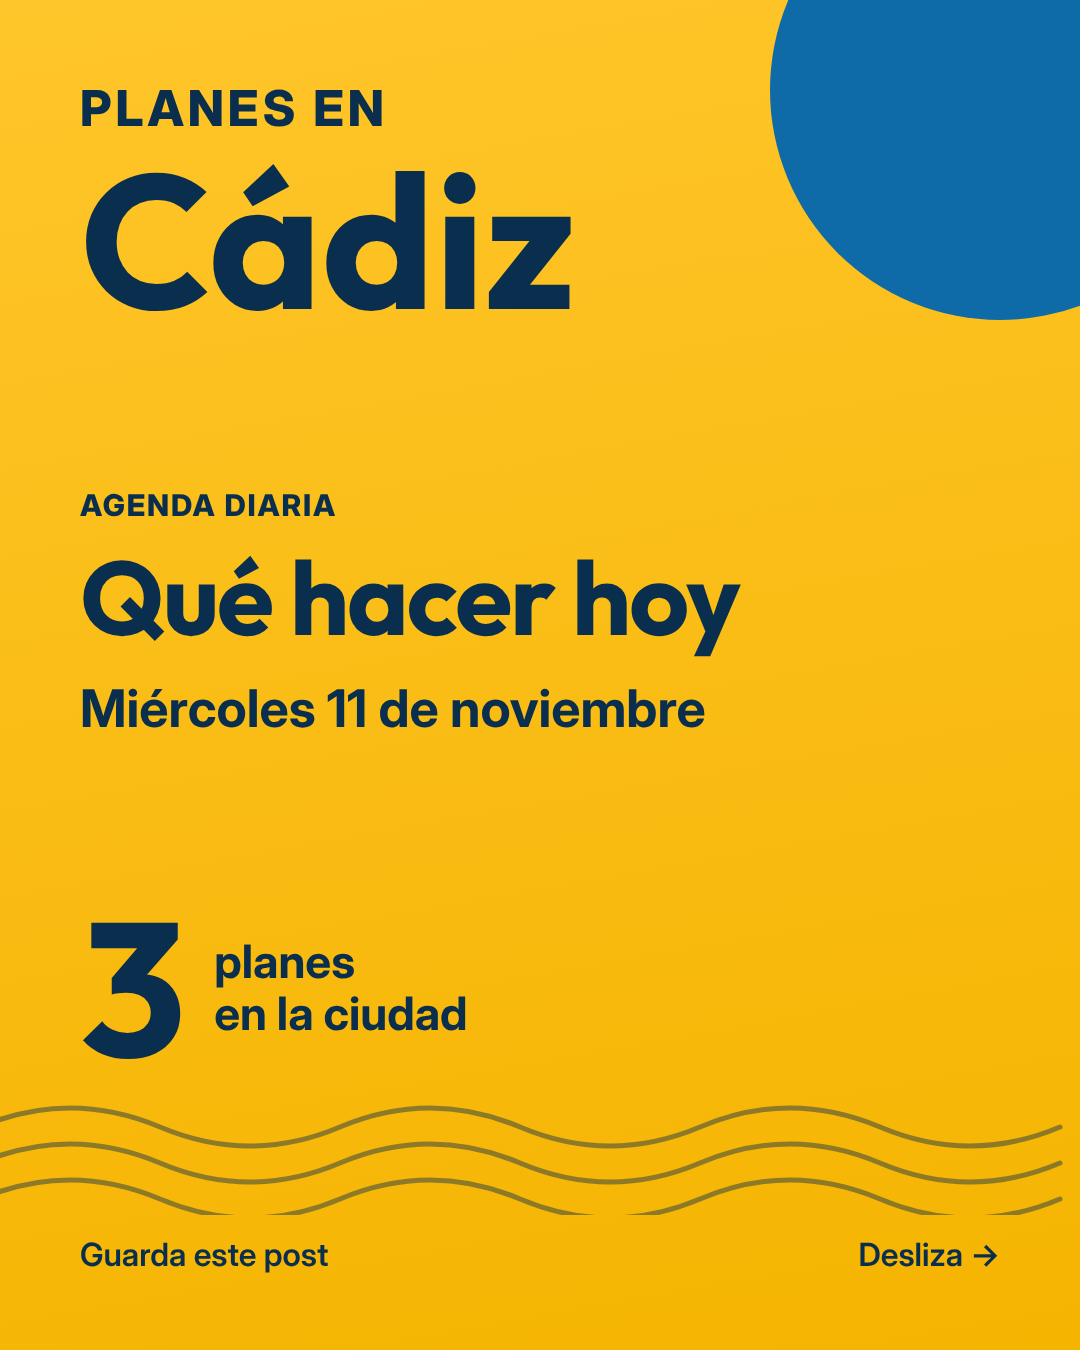
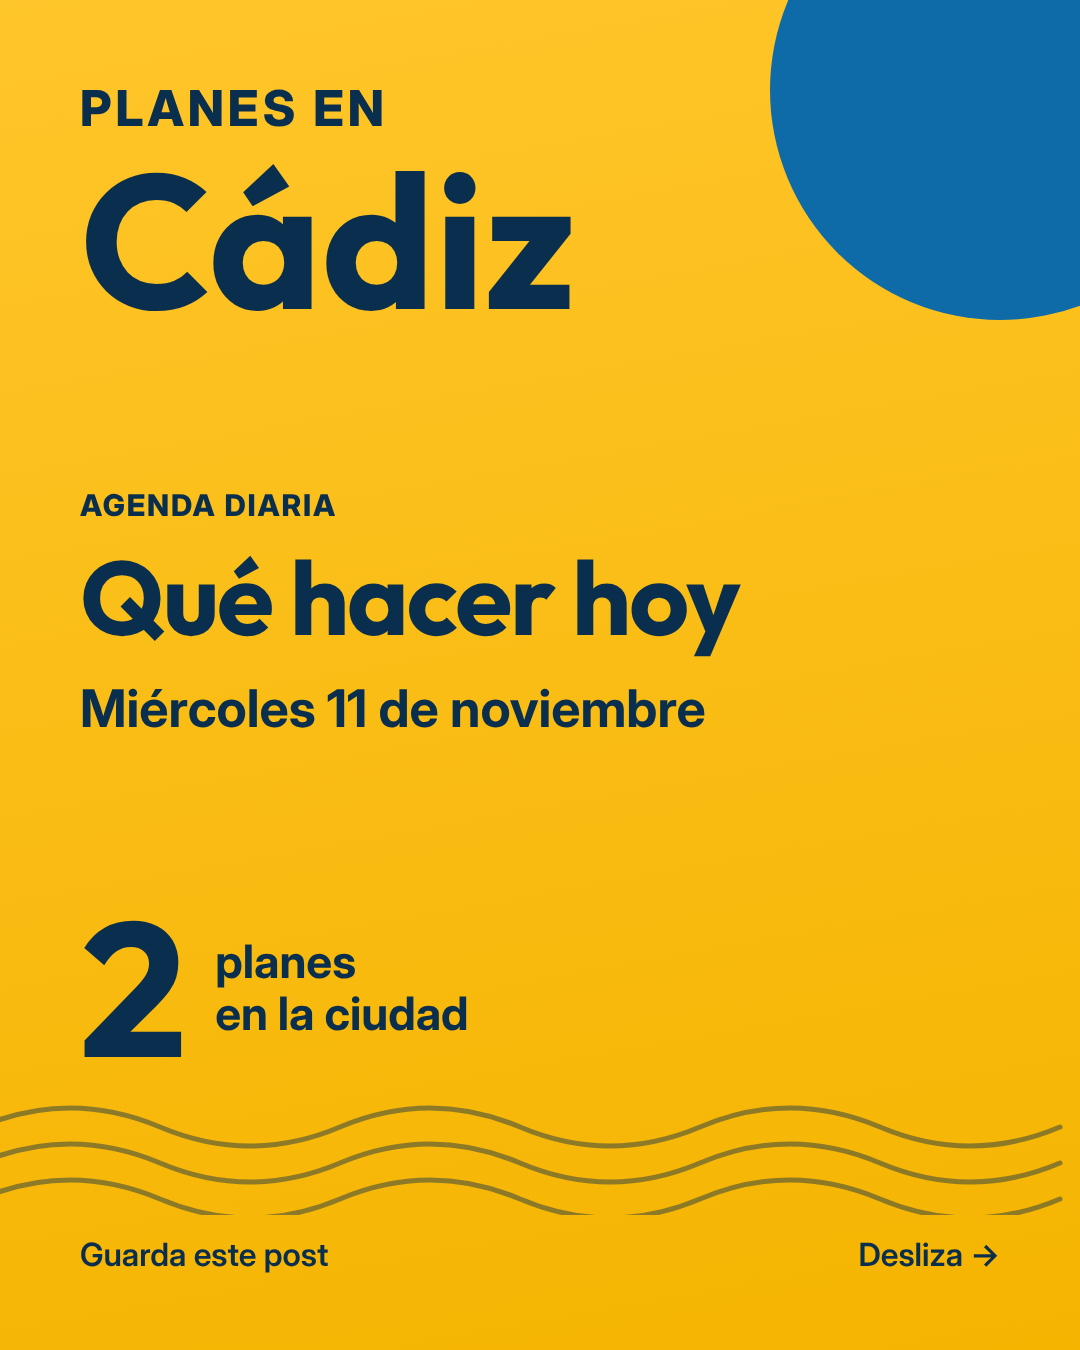
Retirado el pódcast Locos de la azotea del 11-nov (adelantado por el organizador); Cajasol enlaza cada evento a su ficha; regla: el organizador prevalece
Claude-Session: https://claude.ai/code/session_015K7xjVeU4nwxNYicvNL5Uy

Changed region(s): [[0.0611, 0.6844, 0.1833, 0.7778], [0.2139, 0.6844, 0.275, 0.7778], [0.3056, 0.7467, 0.4278, 0.7778]]

diff --git a/parsers_extra.py b/parsers_extra.py
@@ -216,7 +216,8 @@ def parser_cajasol(fuente, ventana):
         pg.goto("https://fundacioncajasol.com/eventos/", wait_until="networkidle", timeout=45000)
         texto = re.sub(r"\s+", " ", pg.inner_text("body"))
         enlaces = []
-        for h in pg.evaluate("Array.from(document.querySelectorAll(\"a[href*='/evento/']\")).map(a=>a.href)"):
+        pares = pg.evaluate("Array.from(document.querySelectorAll(\"a[href*='/evento/']\")).map(a=>[a.innerText.replace(/\\s+/g,' ').trim(),a.href])")
+        for _, h in pares:
             if h not in enlaces:
                 enlaces.append(h)
     texto = texto.split("FECHA LUGAR TITULO", 1)[-1]
@@ -238,7 +239,8 @@ def parser_cajasol(fuente, ventana):
             f0 = f0.replace(year=anio + 1)
         if f1 < f0:
             f1 = f1.replace(year=f0.year + 1)
-        url = enlaces[i] if len(enlaces) == len(filas) else "https://fundacioncajasol.com/eventos/"
+        # ficha propia de la fila: el texto del enlace coincide con el de la fila (si no, por posición; en último caso, el listado)
+        url = next((h for t, h in pares if t.upper().startswith(f[:45].upper())), None) or (enlaces[i] if len(enlaces) == len(filas) else "https://fundacioncajasol.com/eventos/")
         out += _cand(m["titulo"].strip().capitalize(), f0, f1, (ini, fin), url, hora_inicio=m["h"], categoria_fuente=m["tipo"].lower(), lugar="Fundación Cajasol (Casa Pemán)",
                      direccion="Fundación Cajasol, Plaza de San Antonio, 14, 11003 Cádiz", pista_capital=True,
                      descripcion_fuente=f"{m['tipo'].capitalize()} en la sede de Cádiz de la Fundación Cajasol.")

diff --git a/CLAUDE.md b/CLAUDE.md
@@ -64,7 +64,7 @@ El agente debe dejar la base de fuentes **más rica cada día que pasa**. En la 
 2. Se publican **TODOS** los eventos verificados del periodo (única excepción: la agenda mensual, solo destacados). Nunca se descarta un evento por falta de espacio.
 3. Cada dato (fecha, hora, lugar, precio) viene de una fuente consultada; guarda la URL. Si un dato no está claro, **se omite**; nunca se inventa.
 4. **Fuentes por evento:** un evento puede publicarse con UNA sola fuente si esta es **oficial** (Ayuntamiento, Turismo, Junta, Diputación, UCA) o **el propio organizador/recinto** (su web o su ticketing). Si solo aparece en prensa o en agregadores, se busca confirmación en una fuente oficial o del organizador; si no se logra, se publica solo si lo confirman 2 medios distintos que coinciden (criterio 17). La regla 1 (Cádiz capital con evidencia literal) es siempre obligatoria. Contrasta entre fuentes y elimina duplicados. Si dos fuentes se contradicen, prevalece la oficial; si no hay oficial, el dato se omite. Prioridad: oficiales > recintos > venta de entradas > prensa > agregadores.
-5. Justo antes de publicar, vuelve a revisar las fuentes (cancelaciones, "suspendido", cambios de hora). Luego `python publicar.py --fecha F --tipo T --marcar-revision`; sin eso `publicar.py` se niega a publicar.
+5. Justo antes de publicar, vuelve a revisar las fuentes (cancelaciones, "suspendido", cambios de hora) **y lee los mensajes y comentarios recientes** (`registros/pendientes.json`, `interaccion.py --recoger`): si un organizador avisa de un cambio de fecha, hora o cancelación, **prevalece sobre la ficha o agenda** (que puede no estar actualizada), el evento se retira o se corrige y, si ya estaba publicado, se responde y se informa al titular para borrar o corregir la diapositiva/story. Un evento cuya única fuente es una **página de listado** (no su ficha) no se publica sin abrir antes su ficha y confirmar fecha y hora. Luego `python publicar.py --fecha F --tipo T --marcar-revision`; sin eso `publicar.py` se niega a publicar.
 6. No copies textos literales de las webs: redacta con palabras propias (descripciones de 2-3 frases).
 7. Imágenes: todo evento lleva imagen en todos los formatos.
    - **Busca siempre la imagen oficial** de cada evento: `recopilar.py` ya la descarga de las fichas del Ayuntamiento/Turismo; para el resto ejecuta `python imagenes.py --url URL_DE_LA_FICHA --id ID --fecha F` (solo acepta imágenes del mismo dominio oficial, descarta logos/iconos y valida ≥ 240 px de ancho, descarta logotipos y páginas de inicio). Si hay imagen oficial en la web del organizador, del recinto o del Ayuntamiento/Turismo, úsala (también valen las **imágenes del propio evento de la Agenda Cultural de Andalucía (Junta)**: su cartel o foto, citando «Junta de Andalucía»; nunca el banner genérico de cabecera, que `imagenes.py` descarta) (primera opción). Guarda `imagen: {archivo, url_origen, fuente, alt_text}` (alt_text descriptivo) y añade al caption `Imágenes: [fuente]`. Los carteles verticales o pequeños se muestran enteros sobre fondo desenfocado (`ajuste: contain`, automático).
